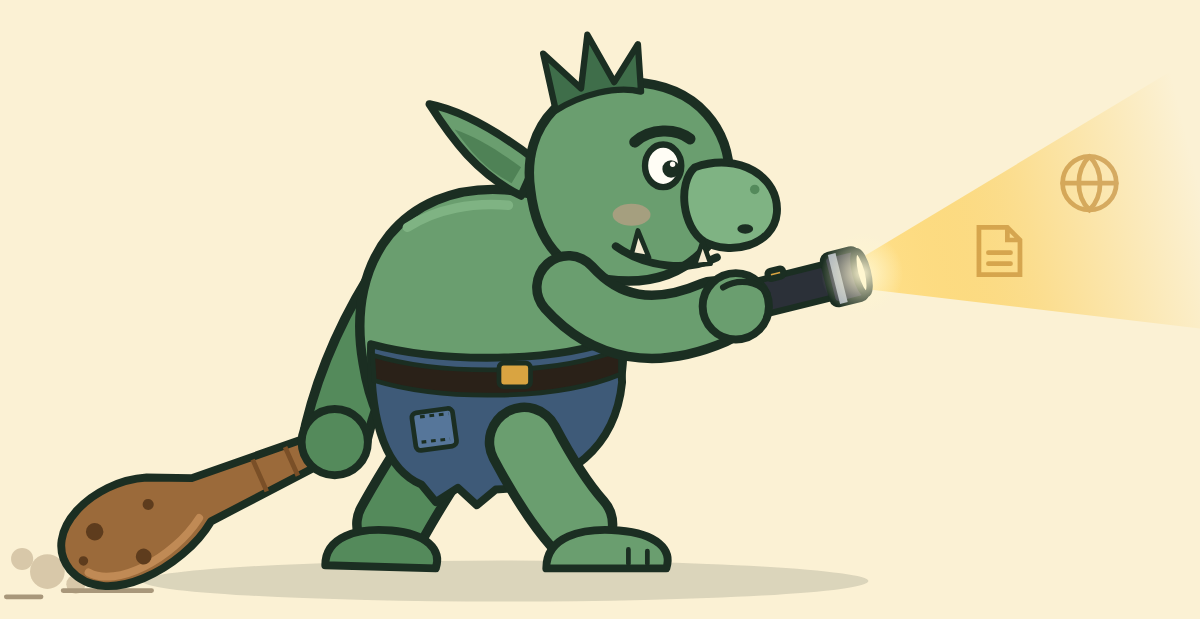
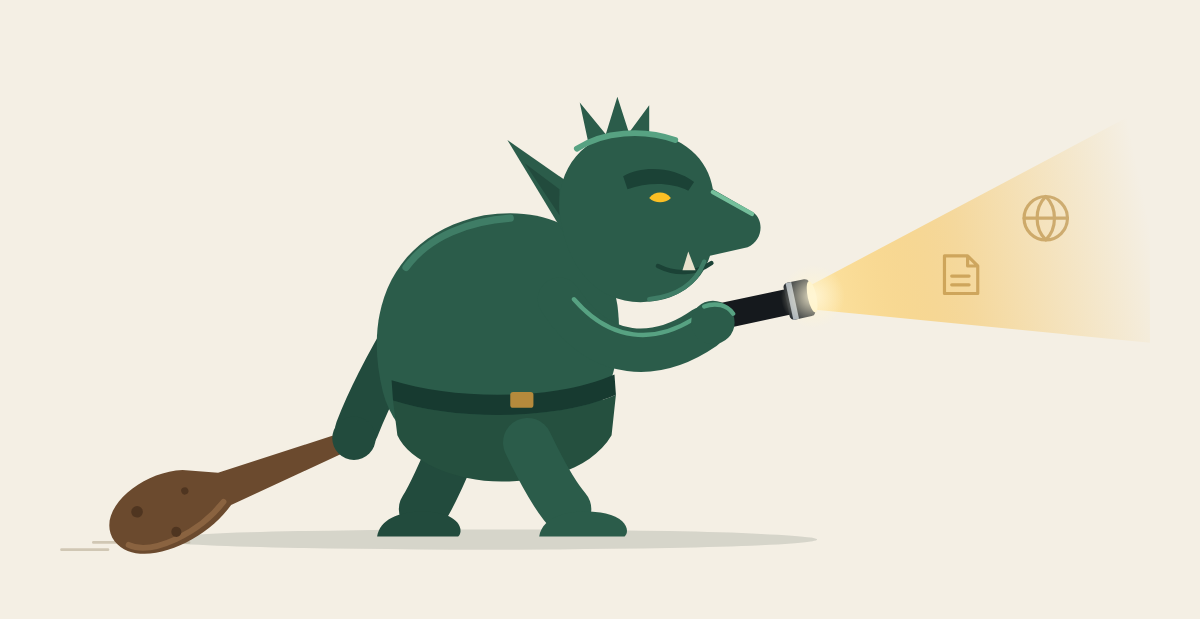
Privatrol: the more professional mascot on the cover; MNA Tools diagram with the new mark

diff --git a/src/content/projects/privatrol/index.md b/src/content/projects/privatrol/index.md
@@ -6,7 +6,7 @@ summary: "A self-hosted OSINT tool that finds where an organization's data is ke
 featured: true
 featuredRank: 2
 cover: ./cover.png
-coverAlt: "The Privatrol mascot, a green troll in patched shorts carrying a club and shining a flashlight across a document and a globe"
+coverAlt: "The Privatrol mascot: a troll in silhouette dragging a club and shining a flashlight across a document and a globe"
 tags: ['osint', 'privacy', 'data-residency', 'vendor-risk', 'mergers-and-acquisitions', 'fastapi']
 draft: false
 ---
